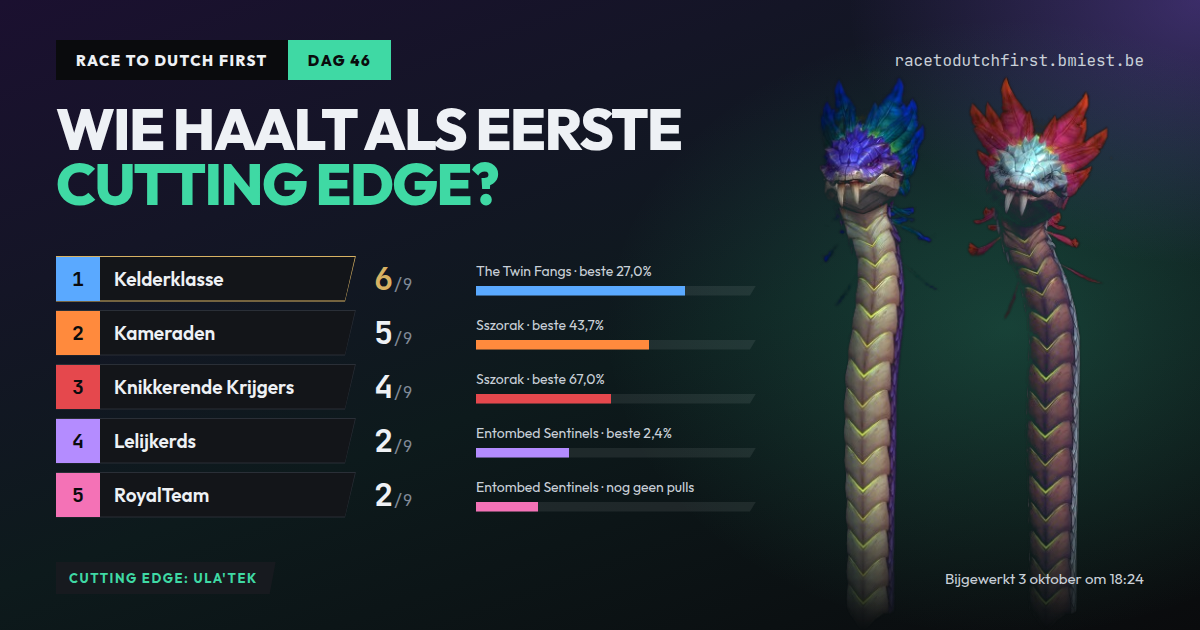
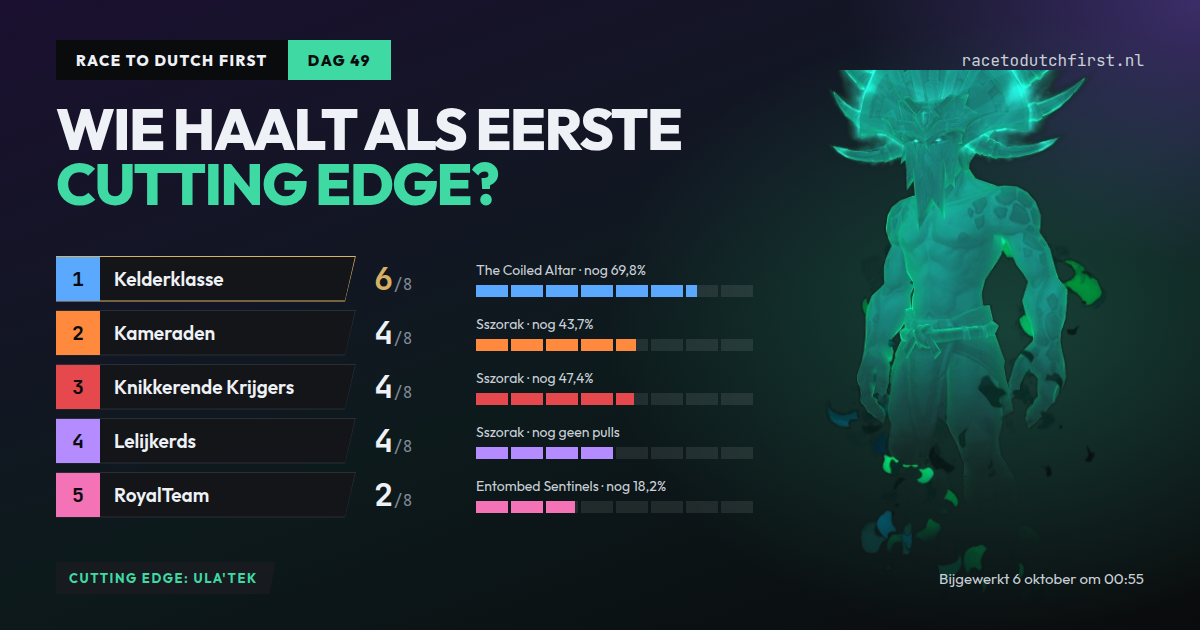
New address: racetodutchfirst.nl (#53)
Canonical, hreflang, og:url/og:image, sitemap.xml, robots.txt, the share
image's URL line, prerender and the Umami domain filter now use
https://racetodutchfirst.nl/. racetodutchfirst.bmiest.be will redirect there
(301, path and query kept) from the homelab. The committed fallback og.png is
redrawn from today's data.

diff --git a/site/index.html b/site/index.html
@@ -6,22 +6,22 @@
 <meta http-equiv="Content-Security-Policy" content="default-src 'self'; script-src 'self' https://stats.bmiest.be; style-src 'self' https://fonts.googleapis.com; font-src https://fonts.gstatic.com; img-src 'self' data: https://static-cdn.jtvnw.net; frame-src https://player.twitch.tv; connect-src 'self' https://decapi.me https://stats.bmiest.be; object-src 'none'; base-uri 'none'; form-action 'none';">
 <title>Race to Dutch First · Nederlandstalige WoW-guilds naar Cutting Edge</title>
 <meta name="description" content="Welke Nederlandstalige World of Warcraft-guild haalt als eerste Cutting Edge? De race naar de laatste Mythic-boss, live gevolgd.">
-<link rel="canonical" href="https://racetodutchfirst.bmiest.be/">
-<link rel="alternate" hreflang="nl" href="https://racetodutchfirst.bmiest.be/">
-<link rel="alternate" hreflang="en" href="https://racetodutchfirst.bmiest.be/?lang=en">
-<link rel="alternate" hreflang="x-default" href="https://racetodutchfirst.bmiest.be/">
+<link rel="canonical" href="https://racetodutchfirst.nl/">
+<link rel="alternate" hreflang="nl" href="https://racetodutchfirst.nl/">
+<link rel="alternate" hreflang="en" href="https://racetodutchfirst.nl/?lang=en">
+<link rel="alternate" hreflang="x-default" href="https://racetodutchfirst.nl/">
 <meta name="theme-color" content="#0a0b0d">
 <link rel="icon" href="favicon.svg" type="image/svg+xml">
 <link rel="icon" href="favicon-32.png" sizes="32x32" type="image/png">
 <link rel="apple-touch-icon" href="apple-touch-icon.png">
 <meta property="og:type" content="website">
-<meta property="og:url" content="https://racetodutchfirst.bmiest.be/">
+<meta property="og:url" content="https://racetodutchfirst.nl/">
 <meta property="og:site_name" content="Race to Dutch First">
 <meta property="og:title" content="Race to Dutch First: wie haalt als eerste Cutting Edge?">
 <meta property="og:description" content="De race tussen Nederlandstalige guilds naar de laatste Mythic-boss, live gevolgd. Het klassement in deze afbeelding wordt bij elke verversing opnieuw gemaakt.">
 <meta property="og:locale" content="nl_NL">
 <meta property="og:locale:alternate" content="en_GB">
-<meta property="og:image" content="https://racetodutchfirst.bmiest.be/og.png">
+<meta property="og:image" content="https://racetodutchfirst.nl/og.png">
 <meta property="og:image:width" content="1200">
 <meta property="og:image:height" content="630">
 <meta property="og:image:alt" content="Het klassement van Race to Dutch First: per guild de Mythic-kills en de huidige boss.">
@@ -175,7 +175,7 @@
 
 <!-- Visitor stats: self-hosted Umami (senate), cookieless, no IPs stored, so no banner.
      data-domains: only the live site counts, never a local copy. Events: track() in app.js. -->
-<script defer src="https://stats.bmiest.be/script.js" data-website-id="514164e1-6304-4b2c-859b-b26171b799f8" data-domains="racetodutchfirst.bmiest.be"></script>
+<script defer src="https://stats.bmiest.be/script.js" data-website-id="514164e1-6304-4b2c-859b-b26171b799f8" data-domains="racetodutchfirst.nl"></script>
 <script src="bossart.js"></script>
 <script src="i18n.js"></script>
 <script src="app.js"></script>

diff --git a/site/og.html b/site/og.html
@@ -14,7 +14,7 @@
   <div id="ogArt" class="og__art" aria-hidden="true" hidden></div>
   <header class="og__top">
     <div class="og__bug"><span class="og__bug-name">Race to Dutch First</span><span id="ogDay" class="og__bug-day" hidden></span></div>
-    <span class="og__url">racetodutchfirst.bmiest.be</span>
+    <span class="og__url">racetodutchfirst.nl</span>
   </header>
   <h1 id="ogTitle" class="og__title">Wie haalt als eerste <em>Cutting Edge?</em></h1>
   <ol id="ogRows" class="og__rows"></ol>

diff --git a/site/app.js b/site/app.js
@@ -10,7 +10,7 @@
 'use strict';
 
 const DATA_URL = 'data/race.json';
-const SITE_URL = 'https://racetodutchfirst.bmiest.be/';
+const SITE_URL = 'https://racetodutchfirst.nl/';
 const SEASON_FILE = /^data\/[a-z0-9-]+\.json$/; // an archived season's file, from race.json's `seasons`
 // The self-hosted fetcher runs every 5 min on raid evenings (src/racetodutchfirst/schedule.py).
 // Asking every minute is cheap: an unchanged race.json is a 304, and only a new generatedAt redraws.

diff --git a/tests/test_prerender.py b/tests/test_prerender.py
@@ -65,9 +65,9 @@ def test_sitemap_is_committed_and_current():
     assert (SITE / "sitemap.xml").read_text(encoding="utf-8") == expected
     ns = {"s": "http://www.sitemaps.org/schemas/sitemap/0.9"}
     locs = [e.text for e in ET.fromstring(expected.encode()).findall("s:url/s:loc", ns)]
-    assert locs[:2] == ["https://racetodutchfirst.bmiest.be/", "https://racetodutchfirst.bmiest.be/?lang=en"]
-    assert "https://racetodutchfirst.bmiest.be/?season=s1&lang=en" in locs
-    assert "Sitemap: https://racetodutchfirst.bmiest.be/sitemap.xml" in (SITE / "robots.txt").read_text()
+    assert locs[:2] == ["https://racetodutchfirst.nl/", "https://racetodutchfirst.nl/?lang=en"]
+    assert "https://racetodutchfirst.nl/?season=s1&lang=en" in locs
+    assert "Sitemap: https://racetodutchfirst.nl/sitemap.xml" in (SITE / "robots.txt").read_text()
 
 
 def test_share_image_url_carries_the_fetch_time(race):

diff --git a/src/racetodutchfirst/prerender.py b/src/racetodutchfirst/prerender.py
@@ -22,7 +22,7 @@ from .config import ConfigError, load_config
 from .race import season_index
 
 ROOT = Path(__file__).resolve().parents[2]
-SITE_URL = "https://racetodutchfirst.bmiest.be/"
+SITE_URL = "https://racetodutchfirst.nl/"
 
 # The Dutch strings app.js uses for the board and pills (i18n.js; a test keeps them equal).
 NL = {
@@ -43,7 +43,7 @@ MONTHS = ["jan", "feb", "mrt", "apr", "mei", "jun", "jul", "aug", "sep", "okt", 
 BOARD = '<ol id="lowerThirds" class="board"></ol>'
 # The share image's URL gets the fetch time as a version, so a chat app that caches link
 # previews by URL (Discord) shows the fresh image for a newly shared link.
-OG_IMAGE = '<meta property="og:image" content="https://racetodutchfirst.bmiest.be/og.png">'
+OG_IMAGE = '<meta property="og:image" content="https://racetodutchfirst.nl/og.png">'
 PILLS = '<div id="tierPills" class="sp__tier"></div>'
 
 

diff --git a/tests/test_site.py b/tests/test_site.py
@@ -51,5 +51,5 @@ def test_no_innerhtml_and_no_inline_styles():
 def test_share_image_tags_are_absolute():
     html = (SITE / "index.html").read_text(encoding="utf-8")
     image = re.search(r'property="og:image" content="([^"]+)"', html)
-    assert image and image.group(1) == "https://racetodutchfirst.bmiest.be/og.png"
+    assert image and image.group(1) == "https://racetodutchfirst.nl/og.png"
     assert (SITE / "og.png").is_file()

diff --git a/PRODUCT.md b/PRODUCT.md
@@ -15,7 +15,7 @@ Static HTML, CSS and JavaScript with no build step and no framework, like the th
 This repository holds the shared design language (v2) for three products with different audiences:
 
 - **Stream overlay** (`Bmiest/bmiest_wow_streaming_theme`, `streamoverlay.bmiest.be`): Twitch viewers following bmiest's World of Warcraft raids. They watch on a PC, often on a second monitor next to their own game, or on a phone, so the overlay is usually seen small and at a glance. The operator (bmiest) sets it up in OBS.
-- **Race to Dutch First** (`reniersworx/racetodutchfirst`, `racetodutchfirst.bmiest.be`): Dutch-speaking WoW raiders and their guilds checking how the race to Cutting Edge stands, often on a phone around raid nights. Built for the wider Dutch-speaking WoW community too, where possible.
+- **Race to Dutch First** (`reniersworx/racetodutchfirst`, `racetodutchfirst.nl`): Dutch-speaking WoW raiders and their guilds checking how the race to Cutting Edge stands, often on a phone around raid nights. Built for the wider Dutch-speaking WoW community too, where possible.
 - **Wishlist updater dashboard** (`Bmiest/bmiest_wowaudit_wishlist_updater`, `wishlistupdater.bmiest.be`): the operator (Shiftheal, Holy Priest, Ragnaros EU), deciding which gear to wish for and where to spend crests.
 
 ## Product Purpose

diff --git a/README.md b/README.md
@@ -2,7 +2,7 @@
 
 Welke Nederlandstalige World of Warcraft-guild haalt als eerste **Cutting Edge**, de laatste Mythic-boss van de huidige raid tier? Deze site volgt de race: een racebaan per guild, het klassement, de voortgang door de tijd, een overzicht per boss en hoe dicht iedereen bij zijn huidige boss zit.
 
-Live op <https://racetodutchfirst.bmiest.be/>. De data komt van [Raider.IO](https://raider.io), aangevuld met [Warcraft Logs](https://www.warcraftlogs.com), en wordt op raidavonden elk half uur ververst, anders om de 2 uur.
+Live op <https://racetodutchfirst.nl/>. De data komt van [Raider.IO](https://raider.io), aangevuld met [Warcraft Logs](https://www.warcraftlogs.com), en wordt op raidavonden elk half uur ververst, anders om de 2 uur.
 
 ## Een guild toevoegen
 

diff --git a/CLAUDE.md b/CLAUDE.md
@@ -3,7 +3,8 @@
 A public, static site that follows Dutch-speaking WoW guilds racing to be the first to reach
 Cutting Edge (the CE boss on Mythic) in the current raid tier. **The UI is Dutch by default**,
 with an English translation behind the NL | EN switch (see *Languages*).
-Live at https://racetodutchfirst.bmiest.be/. Moving from GitHub Pages to self-hosting on the
+Live at https://racetodutchfirst.nl/ (the old https://racetodutchfirst.bmiest.be/ redirects there
+with a 301, path and query kept). Moving from GitHub Pages to self-hosting on the
 operator's homelab (see *Hosting*): a container fetches on its own schedule, so the data no
 longer waits for GitHub's cron.
 
